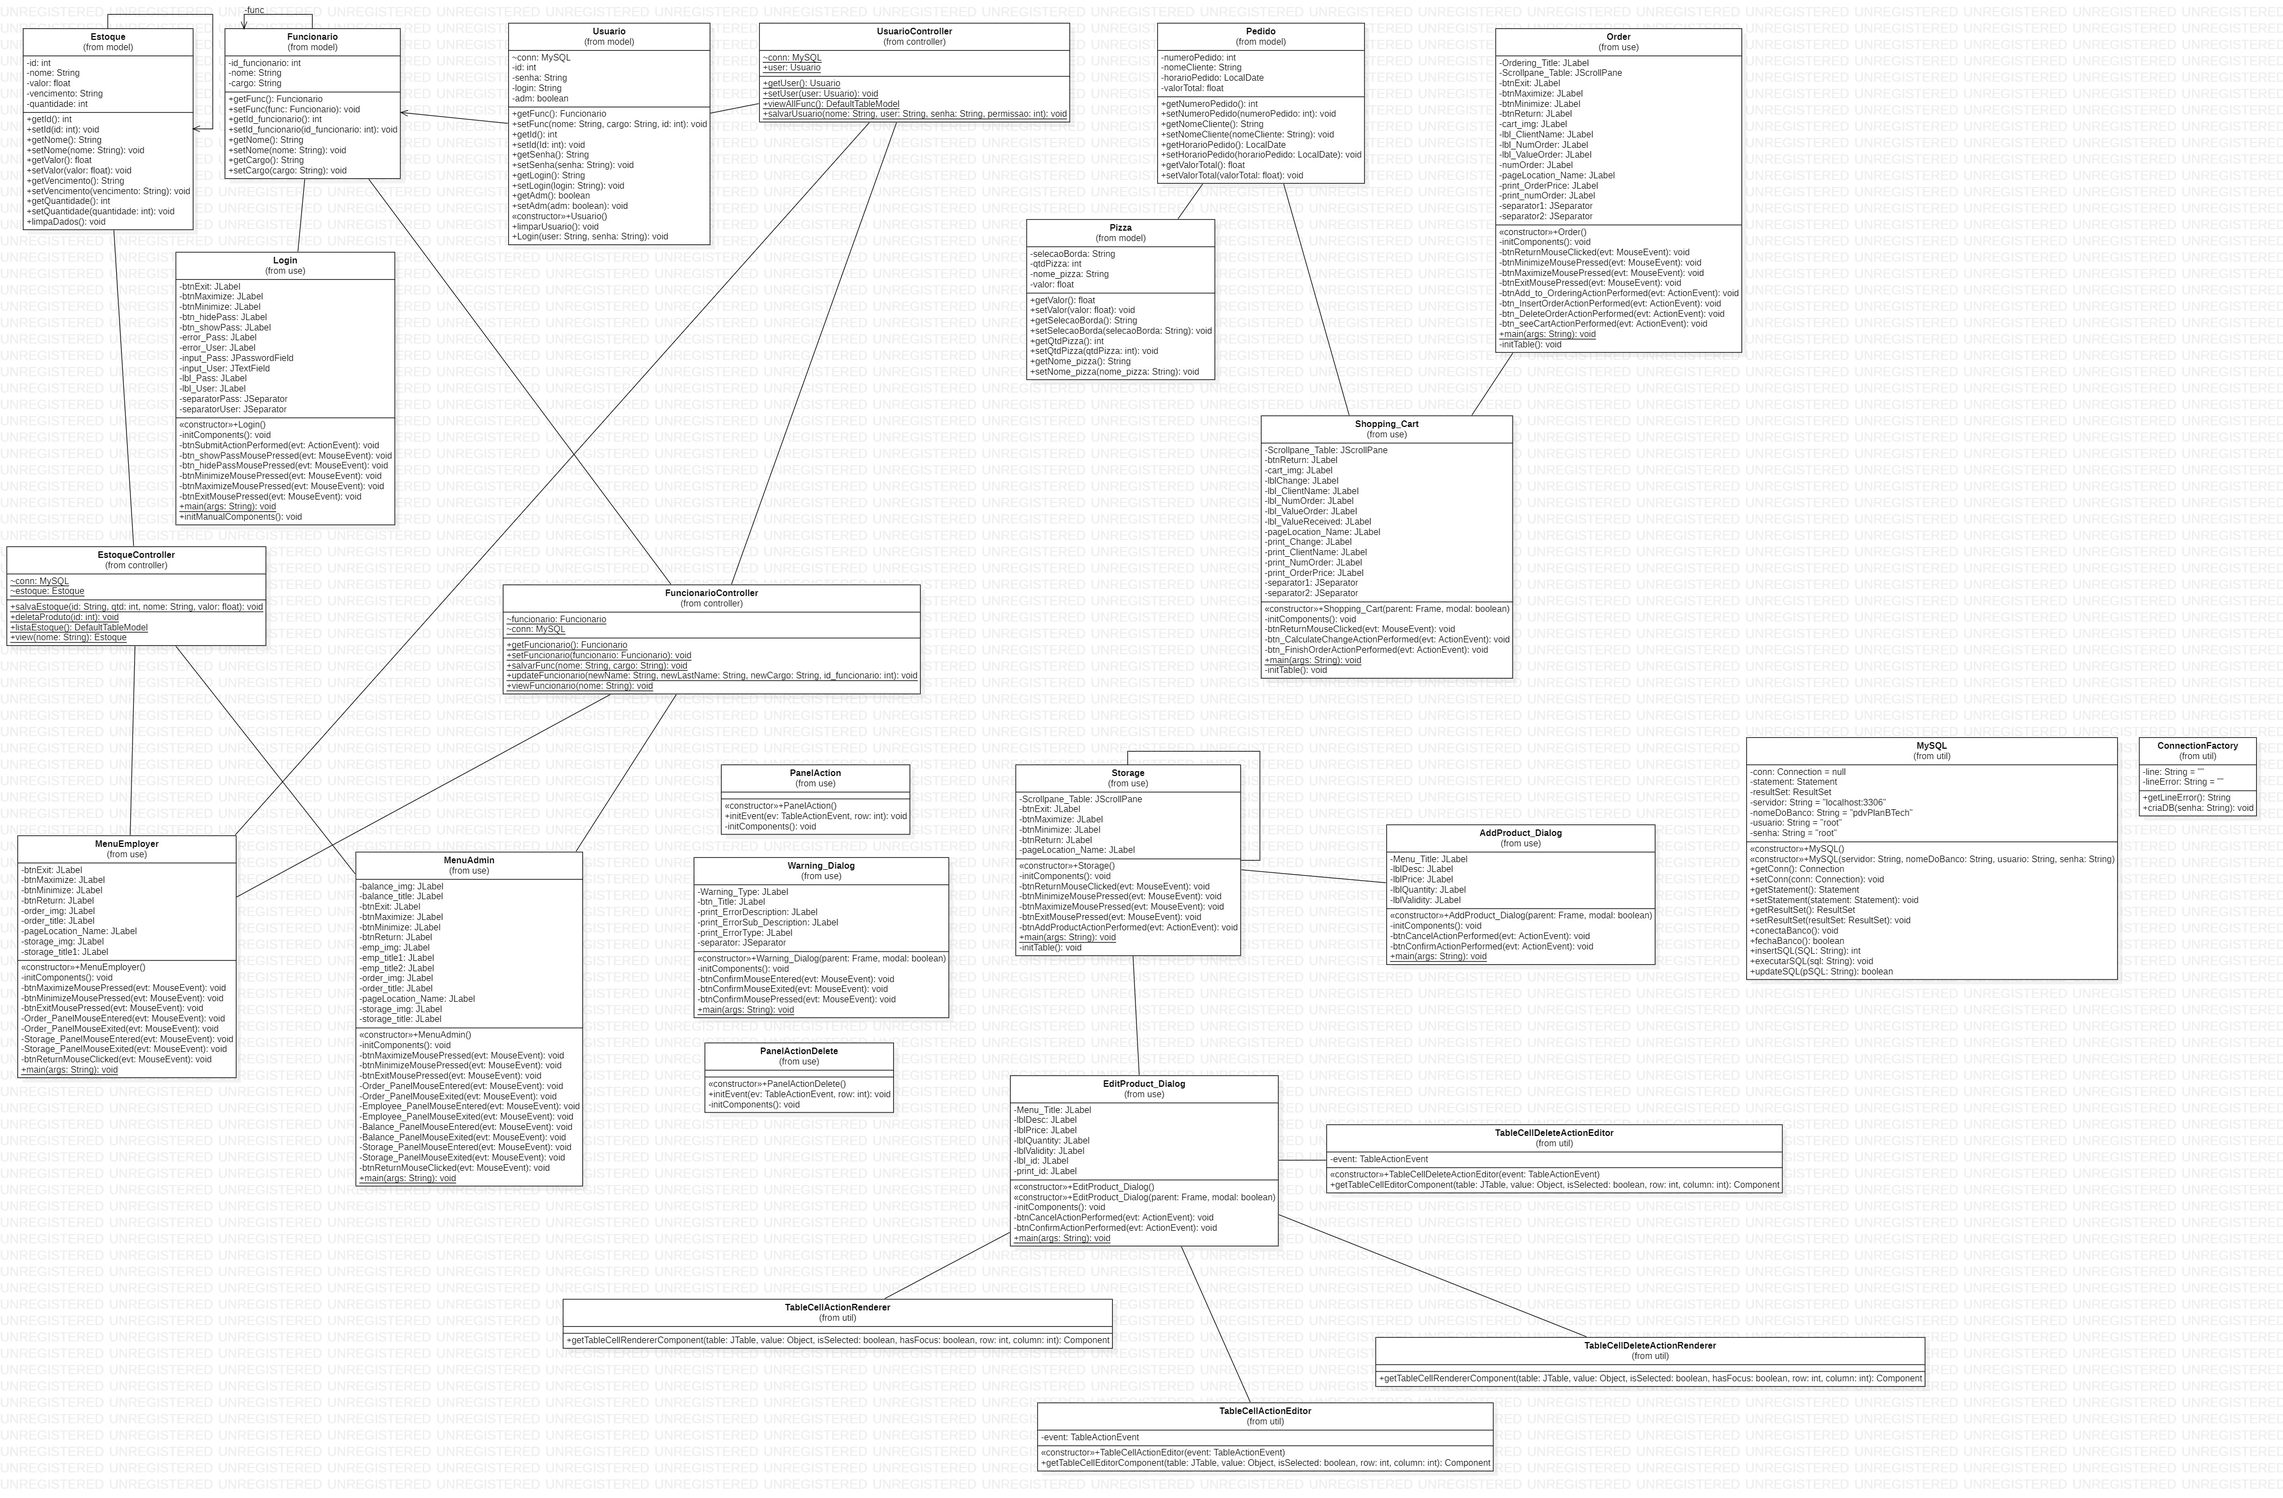
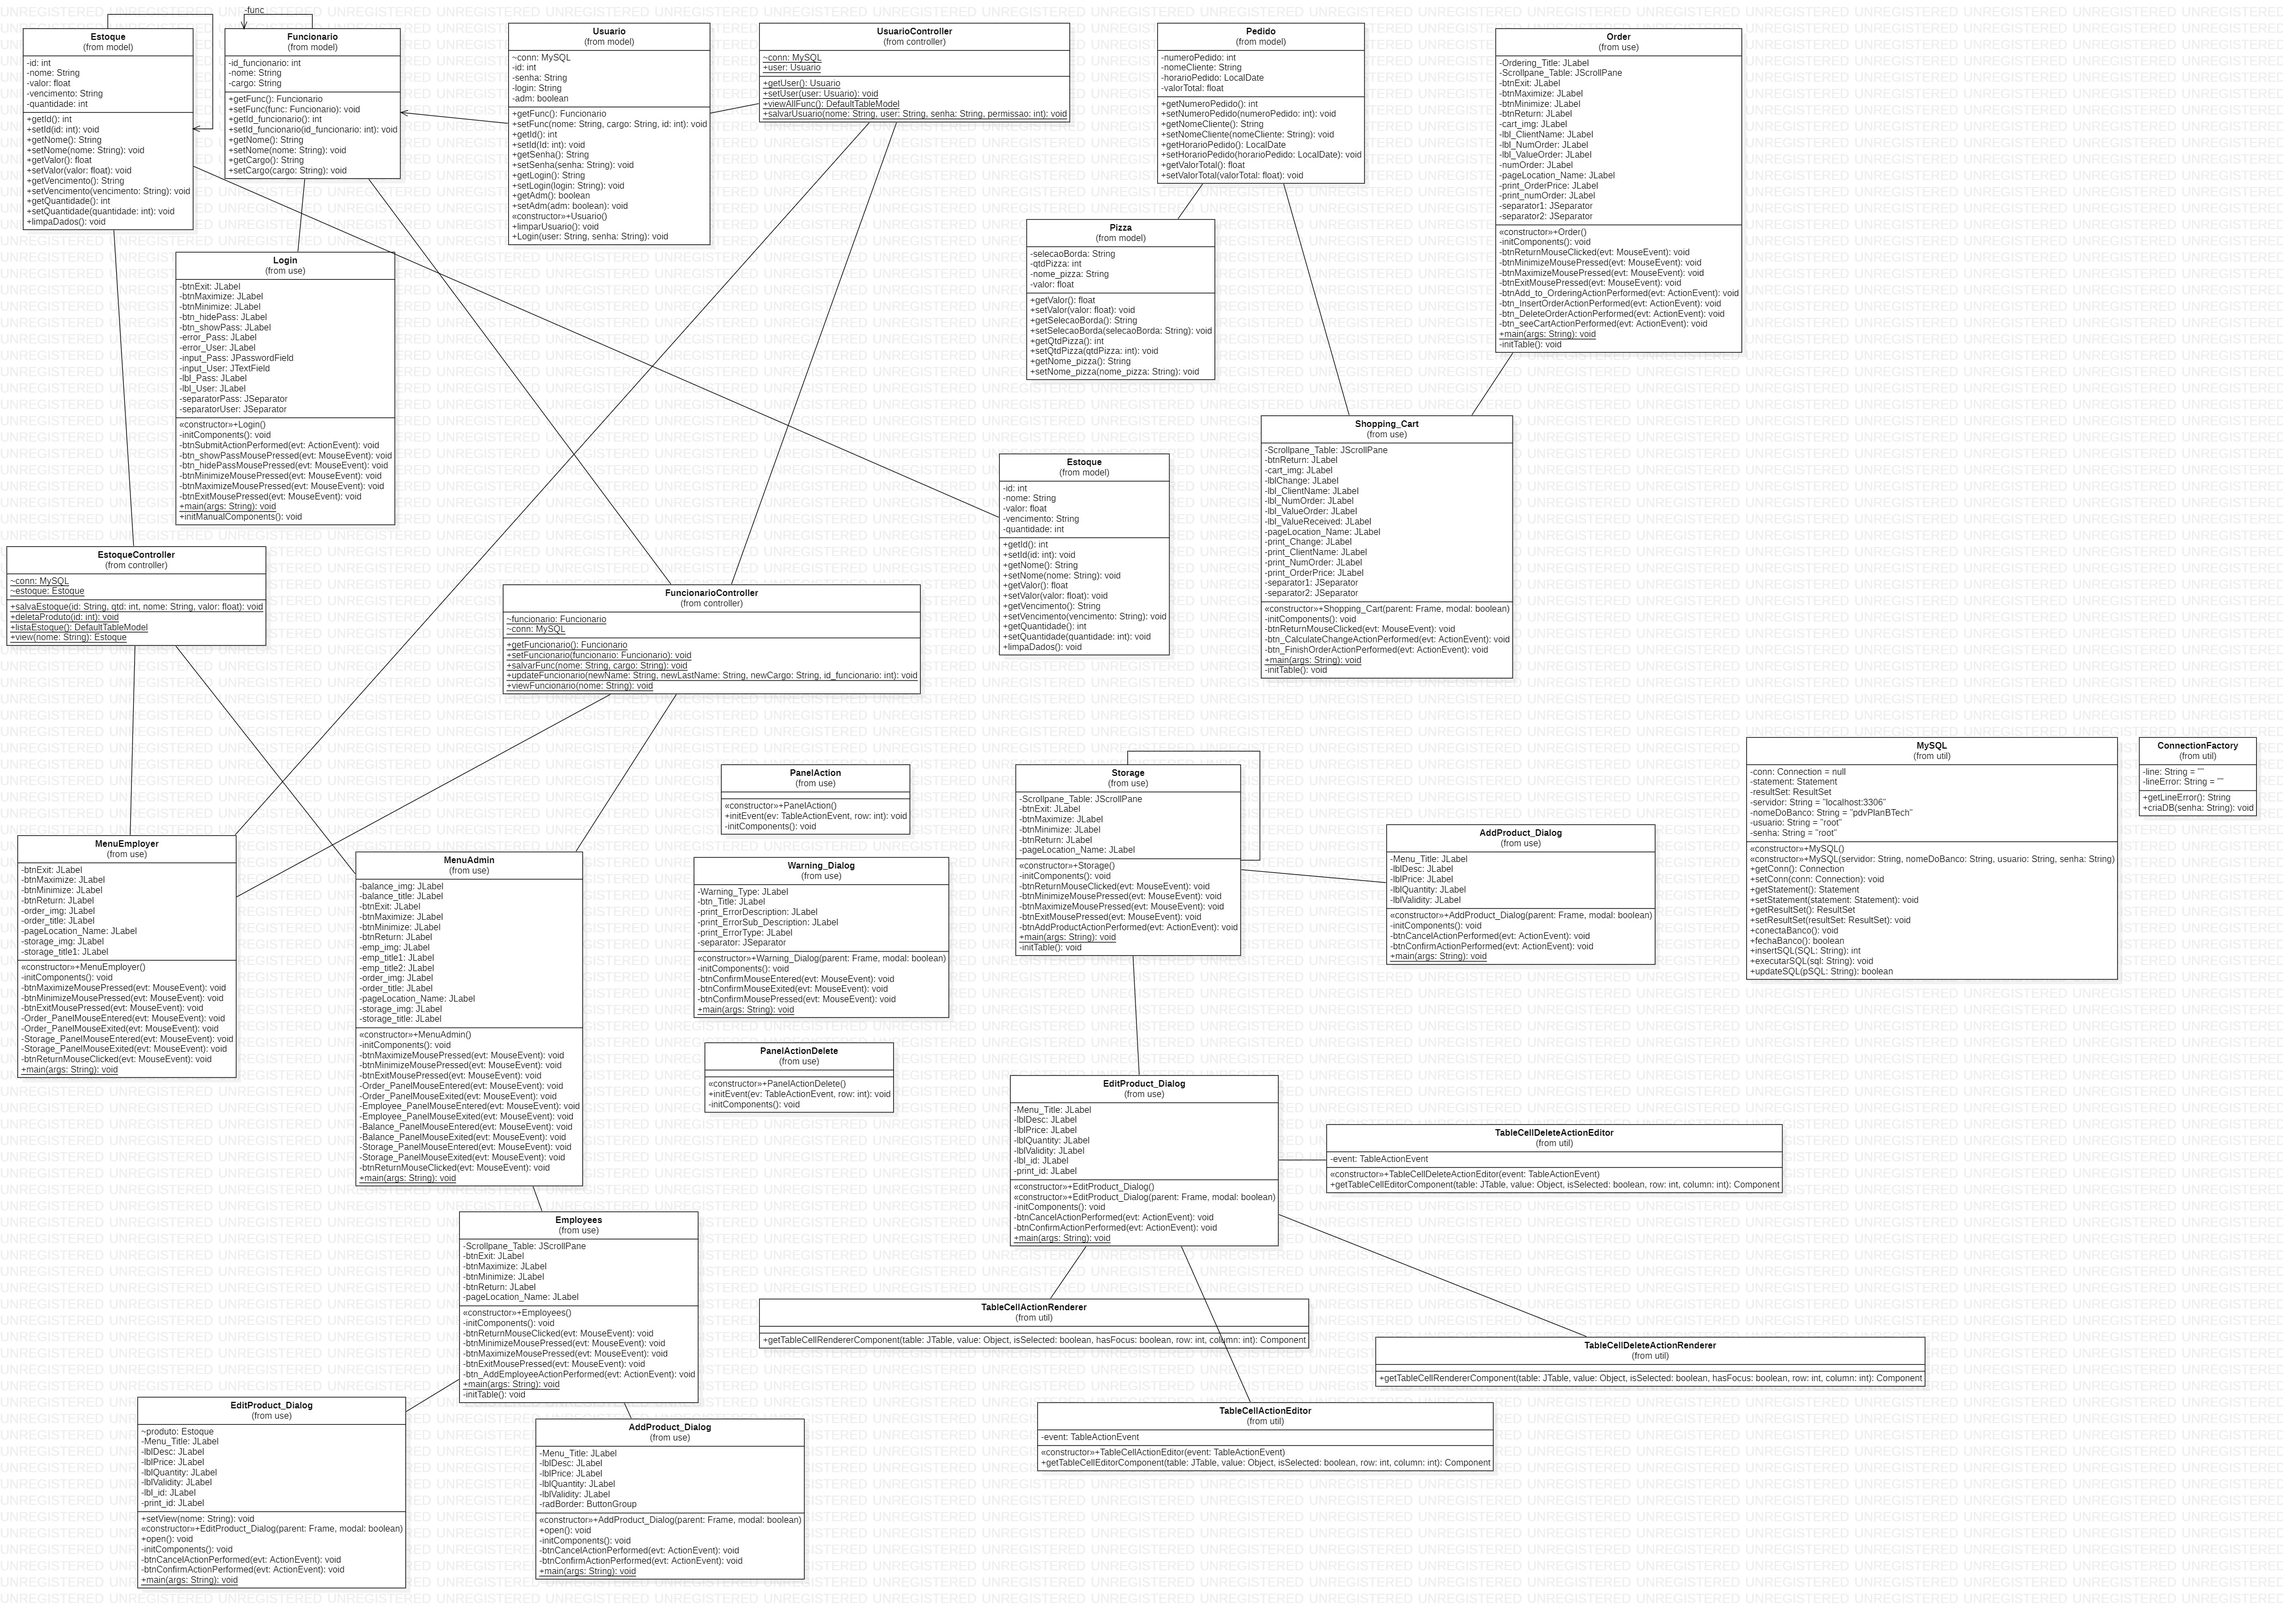
Grid funcionario e diagrama
Grid do listar funcionario funcionando e a atualização do Diagrama de Classe

diff --git a/pdvTech/src/main/java/com/pdvtech/view/use/Employees.java b/pdvTech/src/main/java/com/pdvtech/view/use/Employees.java
@@ -6,6 +6,7 @@ import com.pdvtech.view.component.util.TableCellActionEditor;
 import com.pdvtech.view.component.util.TableCellActionRenderer;
 import javax.swing.JFrame;
 import javax.swing.table.DefaultTableModel;
+import com.pdvtech.controller.UsuarioController;
 
 public class Employees extends javax.swing.JFrame {
 
@@ -31,7 +32,6 @@ public class Employees extends javax.swing.JFrame {
 
         setDefaultCloseOperation(javax.swing.WindowConstants.EXIT_ON_CLOSE);
         setAlwaysOnTop(true);
-        setMaximumSize(new java.awt.Dimension(1000, 600));
         setMinimumSize(new java.awt.Dimension(1000, 600));
         setUndecorated(true);
 
@@ -70,22 +70,7 @@ public class Employees extends javax.swing.JFrame {
 
         Scrollpane_Table.setBorder(null);
 
-        Employees_Table.setModel(new javax.swing.table.DefaultTableModel(
-            new Object [][] {
-
-            },
-            new String [] {
-                "ID", "Cargo", "Nome", ""
-            }
-        ) {
-            boolean[] canEdit = new boolean [] {
-                false, true, true, true
-            };
-
-            public boolean isCellEditable(int rowIndex, int columnIndex) {
-                return canEdit [columnIndex];
-            }
-        });
+        Employees_Table.setModel(UsuarioController.viewAllFunc());
         Scrollpane_Table.setViewportView(Employees_Table);
         if (Employees_Table.getColumnModel().getColumnCount() > 0) {
             Employees_Table.getColumnModel().getColumn(0).setMinWidth(60);
@@ -205,7 +190,7 @@ public class Employees extends javax.swing.JFrame {
 
     // Variables declaration - do not modify//GEN-BEGIN:variables
     private javax.swing.JPanel Employees_Panel;
-    private com.pdvtech.view.component.customTable Employees_Table;
+    private static com.pdvtech.view.component.customTable Employees_Table;
     private javax.swing.JScrollPane Scrollpane_Table;
     private javax.swing.JLabel btnExit;
     private javax.swing.JLabel btnMaximize;
